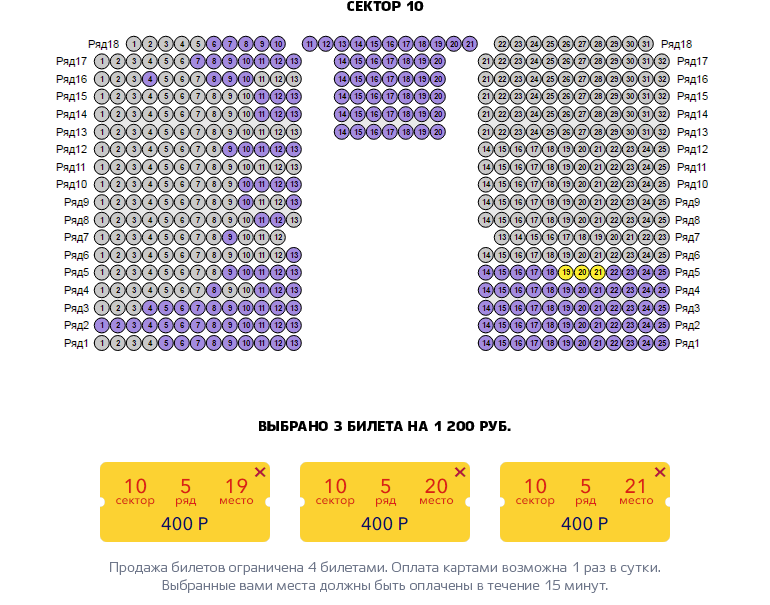
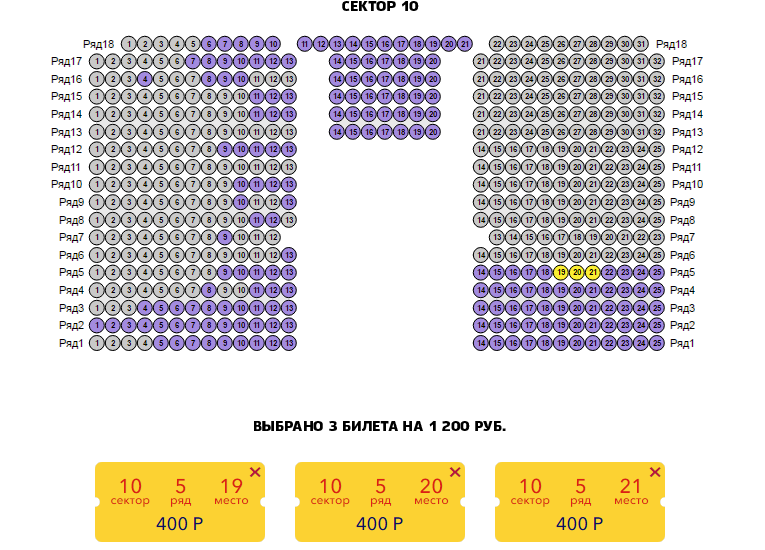
ad_dont-login-popup

diff --git a/src/buy_ticket_popup.html b/src/buy_ticket_popup.html
@@ -24,35 +24,28 @@
               <div class="side-menu">
                 <div class="side-menu__list">
                   <a class="side-menu__item side-menu__item--bright login">вход</a>
-                  <a class="side-menu__item registration">регистрация</a>
+                  <a class="side-menu__item registration" href="buy_ticket_registration.html">регистрация</a>
                 </div>
               </div>
            </div>
            <div class="page__content-area col-xs-10">
-
               <div class="arena__wrapper">
                 <div class="arena__widget">
-                  <img src="/img/choose_place.png" alt="arena.png">
+                  <img src="/img/arena.png" alt="arena.png" style="margin-bottom: 110px;">
                 </div>
-                <div class="arena__info arena__info--center ">
+                <div class="arena__info ">
                   <a href="/inner.html" class="icon-text icon-text--info">Как купить?</a>
-                  <div class="arena__legend  arena__legend--center">
-                    <div class="arena__legend-item"><span class="arena__legend-color" style="background-color: #a38be0"></span> Есть места</div>
+                  <div class="arena__legend arena__legend--center">
+                    <div class="arena__legend-item"><span class="arena__legend-color" style="background-color: #238ed4"></span> Есть места</div>
                     <div class="arena__legend-item"><span class="arena__legend-color" style="background-color: #bdc9d7"></span> Места нет</div>
-                    <div class="arena__legend-item"><span class="arena__legend-color" style="background-color: #fbee33"></span> Выбранные</div>
                   </div>
                 </div>
-  
                 <div class="row form__row">
                   <div class="col-xs-8 col-xs-offset-2 text-center comment">
-                    <span class="">Продажа билетов <b>ограничена 3 билетами</b>. Оплата картами возможна 1 раз в сутки. Выбранные вами места должны быть оплаены в течение <b>15 минут</b>.</span> <br> Программа к матчу доступна здесь:
-                    <a href="//www.cska-hockey.ru/journals" target="_blank">www.cska-hockey.ru/journals</a>
+                    <span class="text-important">Продажа билетов <b>ограничена 3 билетами</b>. Оплата картами возможна 1 раз в сутки. Выбранные вами места должны быть оплаены в течение <b>15 минут</b>.</span> <br> Программа к матчу доступна здесь: <a href="//www.cska-hockey.ru/journals" target="_blank">www.cska-hockey.ru/journals</a>
                   </div>
                 </div>
-
-                <div class="button-container">
-                  <button type="submit" class="button button--big">оплатить</button>
-                </div>
+              </div>
               @@include('_include/contacts_on_page.html')
            </div>
 
@@ -63,5 +56,23 @@
     @@include('blocks/page-footer/page-footer.html')
     @@include('_include/page_bottom.html')
     @@include('_include/popups.html')
+
+    <script>
+    $(function () {
+      $.magnificPopup.open({
+        items: {
+          type: 'inline',
+          src: '.dont_log-in'
+        },
+        callbacks: {
+          close: function() {
+            $('.popup__body--login').show();
+            $('.popup__body--remember-password').hide();
+          }
+        }
+      }, 0);
+
+    })
+    </script>
 </body>
 </html>

diff --git a/src/blocks/buy_ticket_popup.html b/src/blocks/buy_ticket_popup.html
@@ -8,7 +8,9 @@
 
     @@include('blocks/page-header/page-header.html')
 
-
+<script>
+  
+</script>
     <div class="page__content container-fluid wrapper">
          <div class="page__header page__wrapper">
            <div class="return__wrapper  col-xs-2">
@@ -29,30 +31,23 @@
               </div>
            </div>
            <div class="page__content-area col-xs-10">
-
               <div class="arena__wrapper">
                 <div class="arena__widget">
-                  <img src="/img/choose_place.png" alt="arena.png">
+                  <img src="/img/arena.png" alt="arena.png" style="margin-bottom: 110px;">
                 </div>
-                <div class="arena__info arena__info--center ">
+                <div class="arena__info ">
                   <a href="/inner.html" class="icon-text icon-text--info">Как купить?</a>
-                  <div class="arena__legend  arena__legend--center">
-                    <div class="arena__legend-item"><span class="arena__legend-color" style="background-color: #a38be0"></span> Есть места</div>
+                  <div class="arena__legend arena__legend--center">
+                    <div class="arena__legend-item"><span class="arena__legend-color" style="background-color: #238ed4"></span> Есть места</div>
                     <div class="arena__legend-item"><span class="arena__legend-color" style="background-color: #bdc9d7"></span> Места нет</div>
-                    <div class="arena__legend-item"><span class="arena__legend-color" style="background-color: #fbee33"></span> Выбранные</div>
                   </div>
                 </div>
-  
                 <div class="row form__row">
                   <div class="col-xs-8 col-xs-offset-2 text-center comment">
-                    <span class="">Продажа билетов <b>ограничена 3 билетами</b>. Оплата картами возможна 1 раз в сутки. Выбранные вами места должны быть оплаены в течение <b>15 минут</b>.</span> <br> Программа к матчу доступна здесь:
-                    <a href="//www.cska-hockey.ru/journals" target="_blank">www.cska-hockey.ru/journals</a>
+                    <span class="text-important">Продажа билетов <b>ограничена 3 билетами</b>. Оплата картами возможна 1 раз в сутки. Выбранные вами места должны быть оплаены в течение <b>15 минут</b>.</span> <br> Программа к матчу доступна здесь: <a href="//www.cska-hockey.ru/journals" target="_blank">www.cska-hockey.ru/journals</a>
                   </div>
                 </div>
-
-                <div class="button-container">
-                  <button type="submit" class="button button--big">оплатить</button>
-                </div>
+              </div>
               @@include('_include/contacts_on_page.html')
            </div>
 

diff --git a/src/buy_ticket_payments.html b/src/buy_ticket_payments.html
@@ -43,7 +43,7 @@
                 <tbody>
                   <tr>
                     <td>19098</td>
-                    <td>Медвешчак</td>
+                    <td><a href="#">Медвешчак</a></td>
                     <td>Сектор 8, ряд 13, место 20</td>
                     <td>2 100 руб.</td>
                     <td>26.12.2016 19:30</td>
@@ -52,7 +52,7 @@
                   </tr>
                   <tr>
                     <td>19098</td>
-                    <td>Медвешчак</td>
+                    <td><a href="#">Медвешчак</a></td>
                     <td>Сектор 8, ряд 13, место 20</td>
                     <td>2 100 руб.</td>
                     <td>26.12.2016 19:30</td>
@@ -61,7 +61,7 @@
                   </tr>
                   <tr>
                     <td>19098</td>
-                    <td>Медвешчак</td>
+                    <td><a href="#">Медвешчак</a></td>
                     <td>Сектор 8, ряд 13, место 20</td>
                     <td>2 100 руб.</td>
                     <td>26.12.2016 19:30</td>
@@ -70,7 +70,7 @@
                   </tr>
                   <tr>
                     <td>19098</td>
-                    <td>Медвешчак</td>
+                    <td><a href="#">Медвешчак</a></td>
                     <td>Сектор 8, ряд 13, место 20</td>
                     <td>2 100 руб.</td>
                     <td>26.12.2016 19:30</td>
@@ -79,7 +79,7 @@
                   </tr>
                   <tr>
                     <td>19098</td>
-                    <td>Медвешчак</td>
+                    <td><a href="#">Медвешчак</a></td>
                     <td>Сектор 8, ряд 13, место 20</td>
                     <td>2 100 руб.</td>
                     <td>26.12.2016 19:30</td>
@@ -88,7 +88,7 @@
                   </tr>
                   <tr>
                     <td>19098</td>
-                    <td>Медвешчак</td>
+                    <td><a href="#">Медвешчак</a></td>
                     <td>Сектор 8, ряд 13, место 20</td>
                     <td>2 100 руб.</td>
                     <td>26.12.2016 19:30</td>
@@ -97,7 +97,7 @@
                   </tr>
                   <tr>
                     <td>19098</td>
-                    <td>Медвешчак</td>
+                    <td><a href="#">Медвешчак</a></td>
                     <td>Сектор 8, ряд 13, место 20</td>
                     <td>2 100 руб.</td>
                     <td>26.12.2016 19:30</td>

diff --git a/src/_include/popups.html b/src/_include/popups.html
@@ -1,33 +1,4 @@
 <div class="popups">
-  <div class="popup login-form1">
-     <div class="popup__body">
-       <h1 class="popup__title">авторизация</h1>
-       <form action="/" class="auth form--popup form js_form-validate">
-         <div class="form__row">
-             <div class="form__field">
-               <input class="form__input pic-error required" type="text"  data-msg-required="Поле не заполнено" name="name" placeholder="Ваш e-mail">
-             </div>
-           </div>
-           <div class="form__row">
-             <div class="form__field">
-               <input class="form__input pic-error required" type="text"  data-msg-required="Поле не заполнено" name="name" placeholder="Пароль">
-             </div>
-           </div>
-           <div class="form__row form__row--v-centred">
-             <div class="form__field--checkbox">
-               <input type="checkbox" value="remember" id="remember" class="checkbox__input checkbox">
-               <label for="remember" class="checkbox__label" checked="">Запомните меня</label>
-             </div>
-             <button type="submit" class="button">Войти на сайт</button>
-           </div>
-       </form>
-     </div>
-     <div class="popup__footer-links group">
-       <a href="" class="popup__footer-link remember-password">Забыли пароль?</a>
-       <a href="" class="popup__footer-link">Зарегистрироваться</a>
-     </div>
-     <div class="popup__close"></div>
-  </div>
 
   <div class="popup login-form">
      <div class="popup__body popup__body--login">
@@ -77,10 +48,20 @@
       </div>
     </div>
 
+
     <div class="popup__body popup__body--remember-thanks">
       <div class="popup__content">
         <h1 class="popup__title">Восстановление пароля</h1>
         <p>На Ваш адрес выслано сообщение<br>для смены пароля!</p>
+      </div>
+    </div>
+  </div>
+
+
+  <div class="popup dont_log-in">
+    <div class="popup__body">
+      <div class="popup__content">
+        <p>Для того, чтобы забронировать место <a href="javascript:void(0);" class="login">авторизуйтесь</a>, пожалуйста.</p>
       </div>
     </div>
   </div>

diff --git a/src/buy_ticket.html b/src/buy_ticket.html
@@ -24,12 +24,11 @@
               <div class="side-menu">
                 <div class="side-menu__list">
                   <a class="side-menu__item side-menu__item--bright login">вход</a>
-                  <a class="side-menu__item registration">регистрация</a>
+                  <a class="side-menu__item registration" href="buy_ticket_registration.html">регистрация</a>
                 </div>
               </div>
            </div>
            <div class="page__content-area col-xs-10">
-
               <div class="arena__wrapper">
                 <div class="arena__widget">
                   <img src="/img/arena.png" alt="arena.png" style="margin-bottom: 110px;">
@@ -39,6 +38,11 @@
                   <div class="arena__legend arena__legend--center">
                     <div class="arena__legend-item"><span class="arena__legend-color" style="background-color: #238ed4"></span> Есть места</div>
                     <div class="arena__legend-item"><span class="arena__legend-color" style="background-color: #bdc9d7"></span> Места нет</div>
+                  </div>
+                </div>
+                <div class="row form__row">
+                  <div class="col-xs-8 col-xs-offset-2 text-center comment">
+                    <span class="text-important">Продажа билетов <b>ограничена 3 билетами</b>. Оплата картами возможна 1 раз в сутки. Выбранные вами места должны быть оплаены в течение <b>15 минут</b>.</span> <br> Программа к матчу доступна здесь: <a href="//www.cska-hockey.ru/journals" target="_blank">www.cska-hockey.ru/journals</a>
                   </div>
                 </div>
               </div>

diff --git a/src/index.html b/src/index.html
@@ -39,6 +39,7 @@
                 <li><a href="/">6.5 Личный кабинет</a></li>
                 <li><a href="/buy_ticket_payments.html">6.6 Платежи ✓</a></li>
                 <li><a href="/buy_ticket.html">6.7 Выбор арены ✓</a></li>
+                <li><a href="/buy_ticket_popup.html">6.7 Выбор арены - сначала авторизуйтесь ✓</a></li>
                 <li><a href="/buy_ticket_sektor.html">6.7 Выбор места ✓</a></li>
               </ul>
               @@include('_include/contacts_on_page.html')

diff --git a/src/_include/page-header.html b/src/_include/page-header.html
@@ -1,3 +1,9 @@
+<div class="notification">
+	<div class="container-fluid wrapper">
+		Дорогие друзья! Новая версия сайта находится в режиме тестирования. Для перехода на старую версию, перейдите по <a href="#">ссылке</a>.
+	</div>
+</div>
+
 <div class="page-header">
 	<div class="container-fluid wrapper">
 		<div class="page-header__table">

diff --git a/src/blocks/popup/popup.js b/src/blocks/popup/popup.js
@@ -1,5 +1,5 @@
 $(function () {
-    $('.registration').magnificPopup({
+    $('.login').magnificPopup({
       items: {
 				type: 'inline',
 				src: '.login-form'

diff --git a/src/blocks/side-menu/side-menu.less b/src/blocks/side-menu/side-menu.less
@@ -29,6 +29,7 @@
     display: block;
     cursor: pointer;
     transition: all 0.2s;
+    text-decoration: none;
 
     &:hover {
       opacity: 0.5;

diff --git a/src/less/global/global-scaffolding.less b/src/less/global/global-scaffolding.less
@@ -274,3 +274,9 @@ b{
 	clear:both;
 	visibility:hidden;
 }
+
+.comment  {
+  font-size: 14px;
+  line-height: 18px;
+  color: @fontColor12;
+}

diff --git a/src/blocks/popup/popup.less b/src/blocks/popup/popup.less
@@ -55,6 +55,10 @@
       text-decoration: underline;
     }
   }
+
+  p:last-of-type {
+    margin-bottom: 0;
+  }
 }
 
 

diff --git a/src/_include/page-footer.html b/src/_include/page-footer.html
@@ -131,3 +131,5 @@
 		</div>
 	</div>
 </div>
+
+@@include('popups.html')
